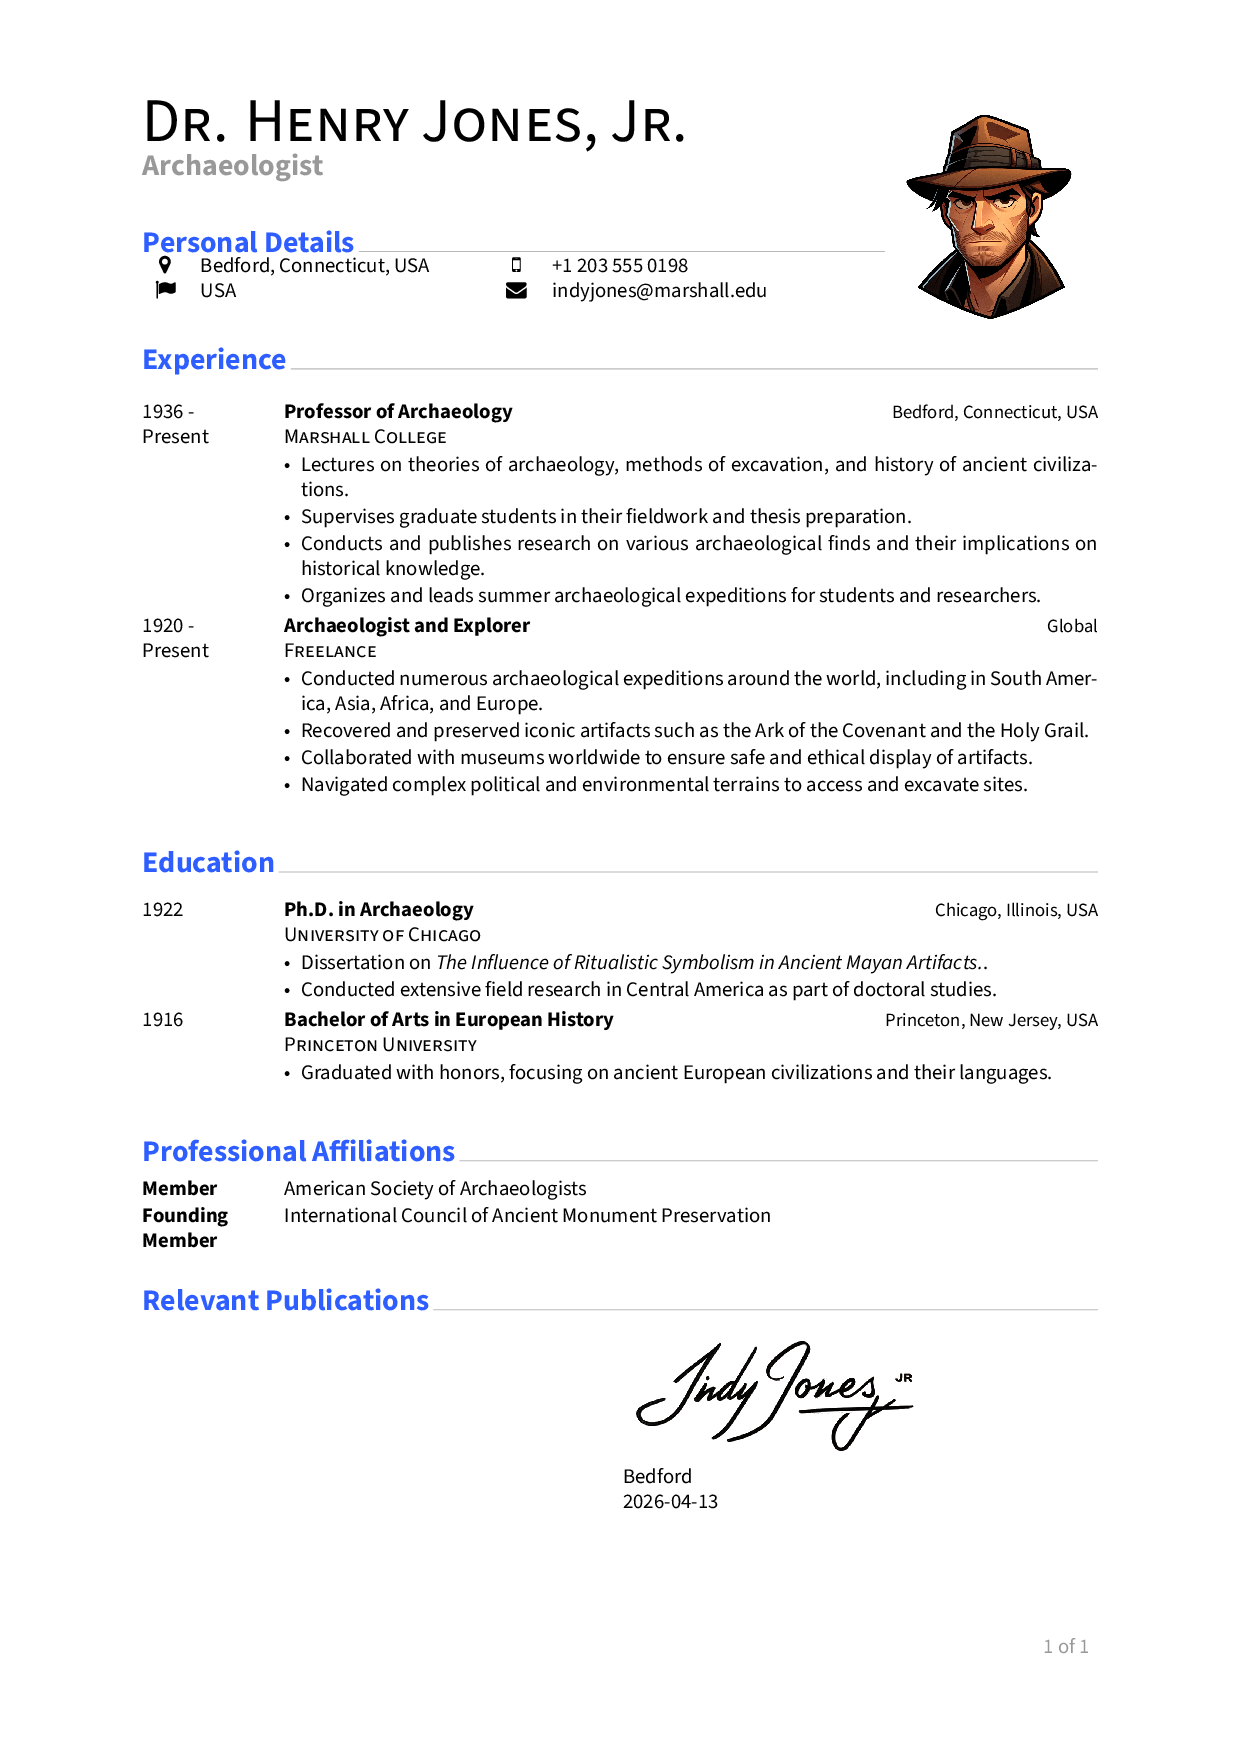
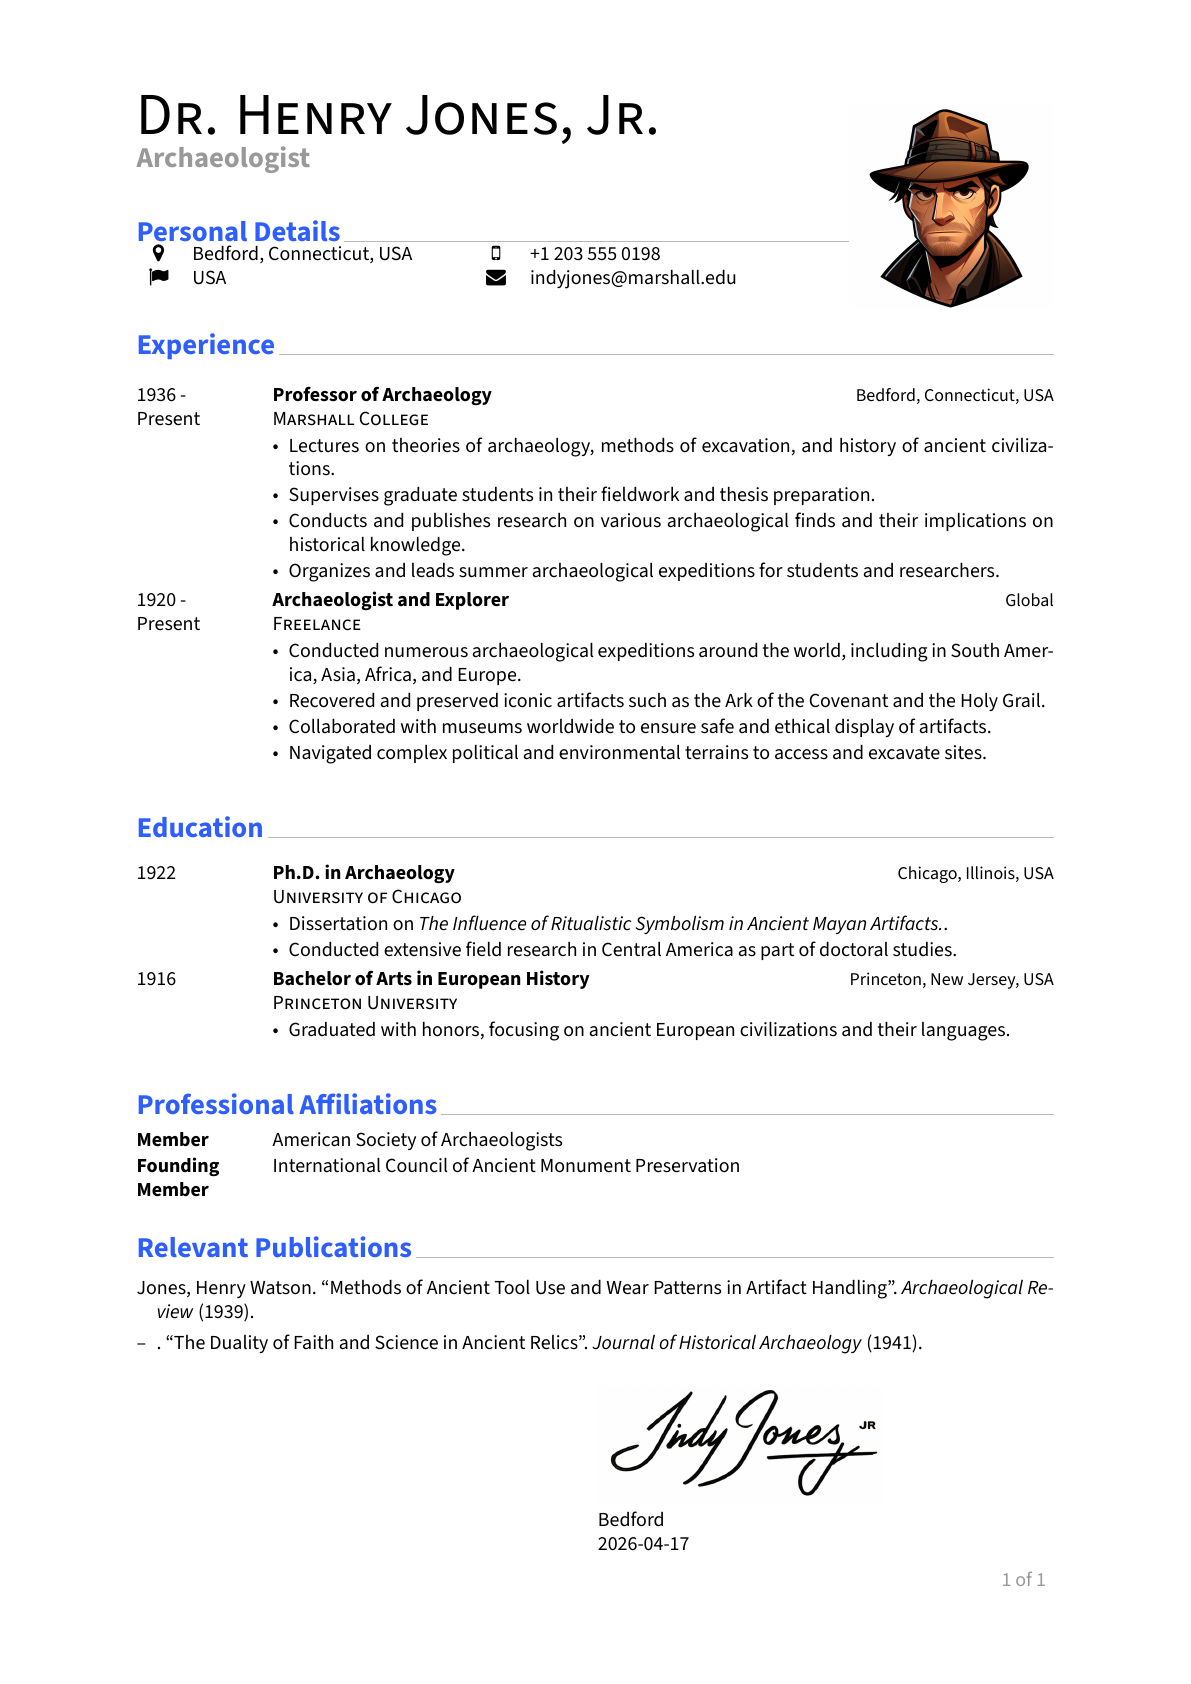
Improve modern layout (#20)
* Fix formatting in modern

* Fix modern header

* Fix now-buggy spacing

* Update readme

diff --git a/README.md b/README.md
@@ -41,6 +41,15 @@ compatibility is not guaranteed between revisions.
 </tr>
 </table>
 
+## Cover Letter Styles
+
+<table>
+<tr>
+<td align="center"><b>german-din</b><br><img src="samples/previews/german-din-letter.png" width="340"></td>
+<td align="center"><b>us-business</b><br><img src="samples/previews/us-business-letter.png" width="340"></td>
+</tr>
+</table>
+
 ## LaTeX Quick Start
 
 Copy the `latex/` directory somewhere on your `TEXINPUTS` path and use the
